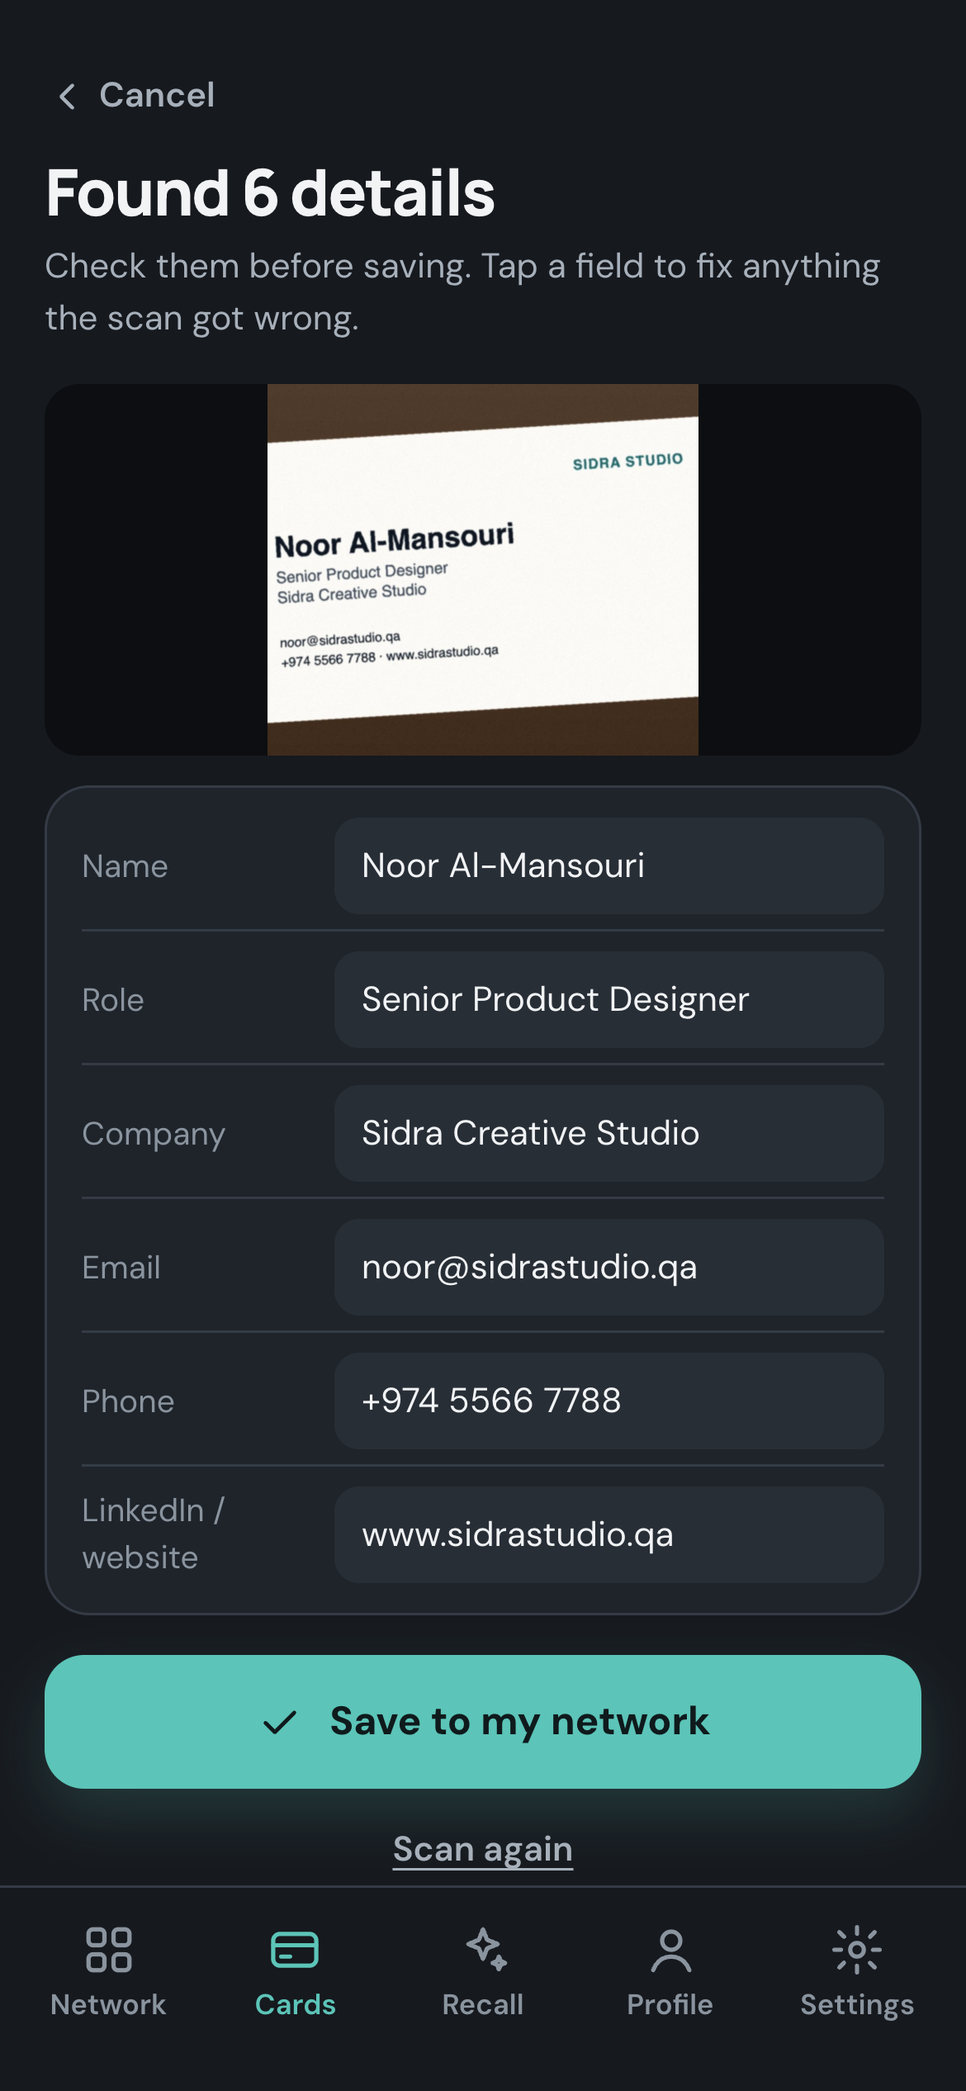
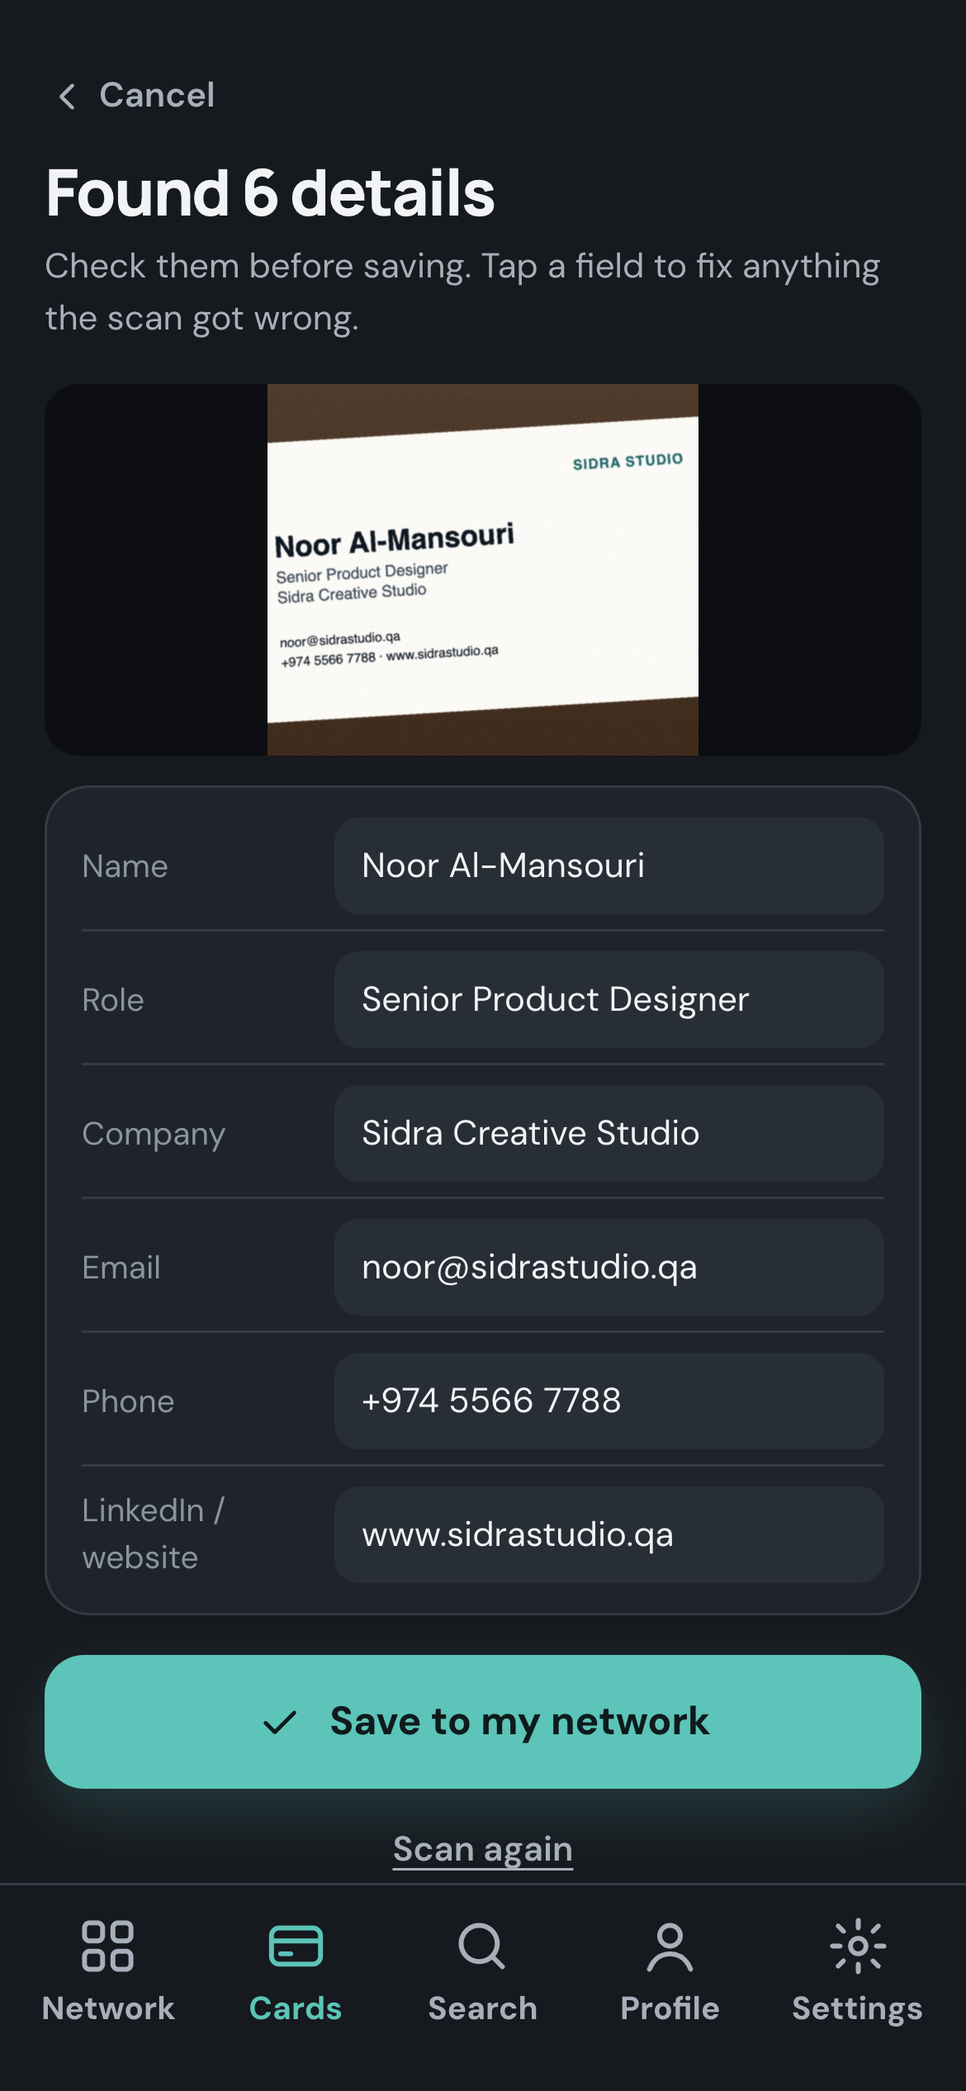
Has Wasl / No Wasl choice, fixed share layout, card type explanations, bigger tab bar, Search tab

diff --git a/index.html b/index.html
@@ -218,8 +218,8 @@ h1, h2, h3 { font-family: var(--display); text-wrap: balance; }
   position: absolute; inset: auto 0 0;
   display: grid;
   grid-template-columns: repeat(5, 1fr);
-  padding: 10px 6px calc(22px + env(safe-area-inset-bottom, 0px));
-  background: rgba(22, 25, 30, 0.94);
+  padding: 8px 6px calc(20px + env(safe-area-inset-bottom, 0px));
+  background: rgba(22, 25, 30, 0.96);
   backdrop-filter: blur(12px);
   border-top: 1px solid var(--line);
   z-index: 20;
@@ -228,12 +228,12 @@ h1, h2, h3 { font-family: var(--display); text-wrap: balance; }
 .tabbar button {
   border: 0; background: transparent;
   display: flex; flex-direction: column; align-items: center; gap: 3px;
-  font-size: 11.5px; font-weight: 600;
-  color: var(--muted);
+  font-size: 13px; font-weight: 700;
+  color: var(--text-2);
   padding: 4px 0;
 }
 .tabbar button[aria-current="page"] { color: var(--teal); }
-.tabbar svg { width: 22px; height: 22px; }
+.tabbar svg { width: 25px; height: 25px; }
 
 /* ---------- common app parts ---------- */
 .topline { display: flex; align-items: center; justify-content: space-between; min-height: 44px; }
@@ -354,19 +354,29 @@ h1, h2, h3 { font-family: var(--display); text-wrap: balance; }
 .card.editing .f:hover { background: rgba(255, 255, 255, 0.12); }
 .card.editing .f.locked { outline: 0; cursor: default; }
 
-/* wallet stack */
-.wallet { position: relative; margin-top: 14px; }
+/* wallet stack: the cards behind show a strip with what they share; the front card sits in the flow, so the page always makes room for it */
+.wallet { --band: 56px; position: relative; margin-top: 12px; }
 .wallet .card { position: absolute; left: 0; right: 0; width: 100%; transition: transform 200ms; }
+.wallet .card:last-child { position: relative; top: 0 !important; }
+.wallet .card.behind .c-tile { visibility: hidden; }
+.card .c-peek { font-family: var(--mono); font-size: 11px; font-weight: 500; opacity: 0.92; min-width: 0; overflow: hidden; text-overflow: ellipsis; white-space: nowrap; }
+.card-about { display: flex; flex-direction: column; gap: 2px; padding: 10px 14px; border-radius: 14px; background: var(--surface); border: 1px solid var(--line); }
+.card-about b { font-size: 14px; }
+.card-about span { color: var(--text-2); font-size: 13px; }
 .wallet .card.behind:hover { transform: translateY(-4px); }
 .wallet .card.front { animation: lift 320ms ease-out; }
 @keyframes lift { from { transform: translateY(-26px); } to { transform: none; } }
 
 /* ---------- screen specifics ---------- */
-.join-hero { display: flex; flex-direction: column; align-items: center; text-align: center; gap: 10px; padding-top: 40px; }
-.join-hero svg.big { width: 128px; height: 82px; }
-.join-hero .wm { font-family: var(--display); font-weight: 800; font-size: 44px; letter-spacing: -1.2px; line-height: 1; }
-.join-hero p { color: var(--text-2); max-width: 26ch; }
-.fan { position: relative; height: 160px; margin: 18px 0 8px; }
+.join-hero { display: flex; flex-direction: column; align-items: center; text-align: center; gap: 8px; padding-top: 16px; }
+.join-hero svg.big { width: 96px; height: 62px; }
+.join-hero .wm { font-family: var(--display); font-weight: 800; font-size: 40px; letter-spacing: -1.2px; line-height: 1; }
+.join-hero p { color: var(--text-2); max-width: 30ch; }
+.fan { position: relative; height: 150px; margin: 10px 0 4px; }
+.what { list-style: none; margin: 0; padding: 0; display: grid; gap: 10px; }
+.what li { display: flex; align-items: center; gap: 12px; font-size: 14.5px; color: var(--text-2); }
+.what li svg { width: 20px; height: 20px; color: var(--teal); flex: none; }
+.what b { color: var(--text); }
 .fan .card { position: absolute; left: 50%; top: 14px; }
 .viewfinder {
   position: relative;
@@ -467,13 +477,21 @@ h1, h2, h3 { font-family: var(--display); text-wrap: balance; }
 .swatch.social { background: var(--card-social); }
 .swatch.team { background: var(--card-team); }
 
-.exchange { position: relative; height: 470px; margin-top: 8px; }
-.exchange .slot { position: absolute; left: 0; right: 0; transition: transform 700ms cubic-bezier(.6, -0.2, .3, 1.3), opacity 300ms; }
-.exchange .theirs { top: 0; }
-.exchange .yours { bottom: 0; }
+/* the two cards sit in the flow, so the labels can never land on a card at any screen size */
+.exchange { position: relative; display: flex; flex-direction: column; gap: 14px; margin-top: 10px; }
+.exchange .slot { position: relative; width: 100%; max-width: 300px; margin-inline: auto; transition: transform 700ms cubic-bezier(.6, -0.2, .3, 1.3), opacity 300ms; }
 .exchange .slot .who { font-family: var(--mono); font-size: 11px; letter-spacing: 0.08em; color: var(--muted); text-transform: uppercase; margin-bottom: 8px; }
-.exchange.swapping .theirs { transform: translateY(258px) rotate(-3deg); }
-.exchange.swapping .yours { transform: translateY(-258px) rotate(3deg); }
+.exchange.swapping .theirs { transform: translateY(calc(100% + 14px)) rotate(-3deg); }
+.exchange.swapping .yours { transform: translateY(calc(-100% - 14px)) rotate(3deg); }
+.choice { display: flex; align-items: center; gap: 14px; width: 100%; text-align: left; border: 1px solid var(--line); background: var(--surface); color: var(--text); border-radius: 18px; padding: 16px; }
+.choice .ic { width: 44px; height: 44px; border-radius: 14px; display: grid; place-items: center; flex: none; background: rgba(92, 196, 184, 0.16); color: var(--teal); }
+.choice .ic svg { width: 22px; height: 22px; }
+.choice.no-wasl .ic { background: rgba(239, 160, 102, 0.16); color: var(--orange); }
+.choice b { display: block; font-size: 17px; }
+.choice span span { color: var(--text-2); font-size: 13.5px; }
+.choice > svg { width: 18px; height: 18px; color: var(--muted); margin-left: auto; flex: none; }
+.sharing { margin-top: 22px; }
+.sharing .card { max-width: 300px; margin: 8px auto 0; }
 .exchange .pulse { position: absolute; left: 50%; top: 50%; width: 64px; height: 64px; margin: -32px; border-radius: 50%; display: grid; place-items: center; background: var(--raised); color: var(--teal); z-index: 2; }
 .exchange .pulse svg { width: 28px; height: 28px; }
 .exchange.swapping .pulse { animation: buzz 120ms linear 6; }
@@ -731,7 +749,15 @@ h1, h2, h3 { font-family: var(--display); text-wrap: balance; }
     phone: { label: "Phone", icon: "phone" },
     instagram: { label: "Instagram", icon: "insta" },
   };
-  const KIND = { pro: "PROFESSIONAL", event: "EVENT", social: "SOCIAL", team: "TEAM WASL" };
+  const KIND = { pro: "PROFESSIONAL", event: "EVENT", social: "SOCIAL", team: "TEAM" };
+  // what each card is for, said plainly (testers didn't know what "Event" or "Team" meant)
+  const KIND_FOR = {
+    pro: "For work contacts and recruiters.",
+    event: "For people you meet at events. Shares the basics only.",
+    social: "For friends and people you meet socially.",
+    team: "For your teammates and classmates.",
+  };
+  const kindName = (id) => KIND[id].charAt(0) + KIND[id].slice(1).toLowerCase();
   const COLOR_NAME = { pro: "Deep teal", event: "Deep violet", social: "Copper", team: "Deep blue" };
 
   // Each person shares a different set of details, the way real cards differ.
@@ -797,7 +823,7 @@ h1, h2, h3 { font-family: var(--display); text-wrap: balance; }
     front: "event",
     editId: "event",
     draft: null,
-    exPhase: "ready",
+    exPhase: "ask", // ask | ready | swapping | done | paper | paperfound | scanned
     swappedWith: null,
     mariamSaved: false,
     ctxConfirmed: false,
@@ -834,9 +860,12 @@ h1, h2, h3 { font-family: var(--display); text-wrap: balance; }
 
   // ---------- rendering helpers ----------
   const fieldValue = (f) => ME[f];
+  const sharesList = (fields) => fields.map((f) => FIELD_META[f].short || FIELD_META[f].label).join(" · ");
+  const cardFields = (id) => S.cards[id].fields.filter((f) => f !== "instagram" || S.extra.instagram);
   function card(id, opts = {}) {
     const c = opts.data || S.cards[id];
-    const fields = c.fields;
+    // Instagram appears only after the person adds their own handle
+    const fields = c.fields.filter((f) => f !== "instagram" || S.extra.instagram);
     const isEdit = !!opts.edit;
     const mini = !!opts.mini;
     const body = ["name", "role", "org"].filter((f) => fields.includes(f) && !(mini && f === "org"));
@@ -846,7 +875,7 @@ h1, h2, h3 { font-family: var(--display); text-wrap: balance; }
         ? `<span class="f ${cls}" data-act="hide-field" data-f="${f}" role="button" tabindex="0" aria-label="Hide ${FIELD_META[f].label}">${esc(text)}</span>`
         : `<span class="f ${cls} ${isEdit ? "locked" : ""}">${esc(text)}</span>`;
     return `<${opts.tag || "div"} class="card ${c.color} ${isEdit ? "editing" : ""} ${mini ? "mini" : ""} ${opts.cls || ""}" ${opts.attrs || ""}>
-      <div class="c-top"><span class="c-word">wasl</span><span class="c-kind">${KIND[id] || ""}</span></div>
+      <div class="c-top">${opts.peek ? `<span class="c-peek">${esc(sharesList(fields))}</span>` : '<span class="c-word">wasl</span>'}<span class="c-kind">${KIND[id] || ""}</span></div>
       ${tile(!mini && fields.includes("org") ? ME.org : null)}
       ${body.includes("name") ? `<div class="c-name">${fEl("name", "", ME.name)}</div>` : ""}
       ${body.filter((f) => f !== "name").map((f) => `<div class="c-line">${fEl(f, "", fieldValue(f))}</div>`).join("")}
@@ -912,14 +941,20 @@ h1, h2, h3 { font-family: var(--display); text-wrap: balance; }
       return `<div class="join-hero">
           ${symbol("big")}
           <div class="wm">wasl</div>
-          <p>Never forget who you met, or why it mattered.</p>
+          <p>Your business cards on your phone. Never forget who you met, or why it mattered.</p>
         </div>
         <div class="fan" aria-hidden="true">
           ${card("social", { mini: true, attrs: 'style="transform:translateX(-88%) rotate(-12deg) scale(.9)"' })}
           ${card("event", { mini: true, attrs: 'style="transform:translateX(-12%) rotate(10deg) scale(.9)"' })}
           ${card("pro", { mini: true, attrs: 'style="transform:translateX(-50%) rotate(-2deg);top:24px"' })}
         </div>
-        <div class="stack" style="margin-top:22px">
+        <ul class="what">
+          <li>${ic("cards")}<span><b>Share</b> a digital business card with one scan</span></li>
+          <li>${ic("pin")}<span><b>Remember</b> where you met and what you talked about</span></li>
+          <li>${ic("search")}<span><b>Find</b> people later by what you remember</span></li>
+        </ul>
+        <div class="stack" style="margin-top:18px">
+          <p class="hint" style="margin:0">Start by scanning your own business card</p>
           <button class="btn" data-act="scan-own">${ic("scan")}Scan my business card</button>
           <button class="btn blue" data-act="import-linkedin">${ic("linkedin")}Import from LinkedIn</button>
           <button class="link" data-act="email-signup">Sign up with email instead</button>
@@ -972,10 +1007,10 @@ h1, h2, h3 { font-family: var(--display); text-wrap: balance; }
     build() {
       const d = S.draft;
       const allContact = ["role", "org", "email", "linkedin", "phone", "instagram"];
-      const hidden = allContact.filter((f) => !d.fields.includes(f));
+      const hidden = allContact.filter((f) => !d.fields.includes(f) && (f !== "instagram" || S.extra.instagram));
       return `${back("wallet", "Cards")}
-        <h2 class="title" style="font-size:26px">Edit ${KIND[S.editId].toLowerCase().replace(/^\w/, (c) => c.toUpperCase())} card</h2>
-        <p class="sub">Tap a detail on the card to hide it.</p>
+        <h2 class="title" style="font-size:26px">Edit ${kindName(S.editId)} card</h2>
+        <p class="sub">${KIND_FOR[S.editId]} Tap a detail on the card to hide it, like your email.</p>
         <div style="margin:16px 0 18px">${card(S.editId, { data: d, edit: true })}</div>
         <div class="stack">
           <div class="label">Add from your profile</div>
@@ -987,18 +1022,14 @@ h1, h2, h3 { font-family: var(--display); text-wrap: balance; }
     },
 
     wallet() {
-      const band = 66;
-      const cardH = 216;
       const order = S.order;
-      const h = band * (order.length - 1) + cardH;
-      return `<div class="topline"><span class="wordmark">${symbol()}wasl</span><button class="round" data-act="edit-front" aria-label="Edit the front card">${ic("plus")}</button></div>
-        <h2 class="title">My cards</h2>
-        <div class="wallet" style="height:${h}px">
-          ${order.map((id, i) => card(id, { cls: id === S.front ? "front" : "behind", attrs: `style="top:${i * band}px;z-index:${i + 1}" data-act="front" data-id="${id}" role="button" tabindex="0" aria-label="${KIND[id]} card"` })).join("")}
+      return `<div class="topline"><h2 class="title">My cards</h2><button class="round" data-act="edit-front" aria-label="Edit the front card">${ic("pencil")}</button></div>
+        <div class="wallet" style="padding-top:calc(var(--band) * ${order.length - 1})">
+          ${order.map((id, i) => card(id, { peek: id !== S.front, cls: id === S.front ? "front" : "behind", attrs: `style="top:calc(var(--band) * ${i});z-index:${i + 1}" data-act="front" data-id="${id}" role="button" tabindex="0" aria-label="${kindName(id)} card: ${sharesList(cardFields(id))}"` })).join("")}
         </div>
-        <div class="stack" style="margin-top:16px">
-          <button class="btn" data-act="share">${ic("qr")}Share ${KIND[S.front].charAt(0) + KIND[S.front].slice(1).toLowerCase()}</button>
-          <div class="row" style="justify-content:center;gap:4px"><p class="hint">Tap a card to bring it forward ·</p><button class="link" style="font-size:13px" data-act="edit-front">Edit this card</button></div>
+        <div class="stack" style="margin-top:12px;gap:10px">
+          <button class="btn" data-act="share">${ic("qr")}Share card</button>
+          <div class="card-about"><b>${kindName(S.front)} card</b><span>${KIND_FOR[S.front]} Tap another card to switch, or <button class="link" style="padding:0;font-size:13px" data-act="edit-front">edit this one</button>.</span></div>
         </div>`;
     },
 
@@ -1057,7 +1088,17 @@ h1, h2, h3 { font-family: var(--display); text-wrap: balance; }
     },
 
     exchange() {
-      const kind = KIND[S.front].charAt(0) + KIND[S.front].slice(1).toLowerCase();
+      const kind = kindName(S.front);
+      // first ask whether the other person has Wasl, so Mariam only appears when she does
+      if (S.exPhase === "ask")
+        return `${back("wallet", "Cards")}
+          <h2 class="title" style="font-size:26px">Share your ${kind} card</h2>
+          <p class="sub">Does the person you just met have Wasl?</p>
+          <div class="stack" style="margin-top:18px">
+            <button class="choice" data-act="has-wasl"><span class="ic">${ic("qr")}</span><span><b>They have Wasl</b><span>Swap cards by scanning each other's code</span></span>${ic("right")}</button>
+            <button class="choice no-wasl" data-act="scan-paper"><span class="ic">${ic("camera")}</span><span><b>No Wasl</b><span>Scan their paper business card instead</span></span>${ic("right")}</button>
+          </div>
+          <div class="sharing"><div class="label" style="text-align:center">You're sharing</div>${card(S.front)}</div>`;
       if (S.exPhase === "scanned") {
         const p = S.scanned[0];
         return `${back("exchange-reset", "Share")}
@@ -1066,7 +1107,7 @@ h1, h2, h3 { font-family: var(--display); text-wrap: balance; }
           <div style="margin:18px 0">${personCard(p)}</div>
           <div class="stack">
             <button class="btn" data-go="network">${ic("network")}Open my network</button>
-            <button class="link" data-go="exchange-reset">Swap cards with Mariam instead</button>
+            <button class="link" data-go="exchange-swap">Swap cards with Mariam instead</button>
           </div>`;
       }
       if (S.exPhase === "paper")
@@ -1094,8 +1135,8 @@ h1, h2, h3 { font-family: var(--display); text-wrap: balance; }
           <p class="sub">${S.swappedWith === "paper" ? "Wasl turned it into a card and invited her to join." : `She has your ${kind} card. Hers is now in your wallet.`}</p>
           <div style="margin:18px 0">${personCard(MARIAM)}</div>
           <button class="btn" data-go="save">${ic("check")}Save Mariam</button>`;
-      return `${back("wallet", "Cards")}
-        <h2 class="title" style="font-size:26px">Share your ${kind} card</h2>
+      return `${back("exchange-reset", "Back")}
+        <h2 class="title" style="font-size:26px">Swap cards with Mariam</h2>
         <p class="sub">Scan Mariam's code, or let her scan yours.</p>
         <div class="exchange ${S.exPhase === "swapping" ? "swapping" : ""}" id="exchange">
           <div class="slot theirs"><div class="who">Mariam's phone</div>${personCard(MARIAM)}</div>
@@ -1105,8 +1146,7 @@ h1, h2, h3 { font-family: var(--display); text-wrap: balance; }
         <div class="row" style="margin-top:12px">
           <div style="width:72px;height:72px;flex:none">${qrSvg(7)}</div>
           <button class="btn" data-act="do-swap" ${S.exPhase === "swapping" ? "disabled" : ""}>${ic("scan")}Scan Mariam's code</button>
-        </div>
-        <button class="link" style="display:block;margin:10px auto 0" data-act="scan-paper">No Wasl? Scan their paper card</button>`;
+        </div>`;
     },
 
     save() {
@@ -1240,7 +1280,7 @@ h1, h2, h3 { font-family: var(--display); text-wrap: balance; }
             </div>`).join("")
           : `<div class="panel stack" style="margin-top:16px"><b>No one matched that</b><p class="sub">Try what they did, where you met, or what you talked about.</p></div>`;
       }
-      return `<div class="topline"><h2 class="title">Recall</h2></div>
+      return `<div class="topline"><h2 class="title">Search</h2></div>
         <p class="sub">Ask like you remember it, by typing or with the mic. No names needed.</p>
         <form class="search" id="recallForm" style="margin-top:16px" autocomplete="off">
           ${ic("recall")}
@@ -1342,7 +1382,7 @@ h1, h2, h3 { font-family: var(--display); text-wrap: balance; }
   const screenEl = document.getElementById("screen");
   const tabbar = document.getElementById("tabbar");
   const overlay = document.getElementById("overlay");
-  const TABS = [["network", "Network"], ["wallet", "Cards"], ["recall", "Recall"], ["profile", "Profile"], ["settings", "Settings"]];
+  const TABS = [["network", "Network"], ["wallet", "Cards"], ["recall", "Search"], ["profile", "Profile"], ["settings", "Settings"]];
   const TAB_OF = { network: "network", album: "network", debrief: "network", remember: "network", wallet: "wallet", build: "wallet", exchange: "wallet", scanner: "wallet", save: "wallet", recall: "recall", profile: "profile", settings: "settings" };
   let lastScreen = null;
 
@@ -1361,7 +1401,7 @@ h1, h2, h3 { font-family: var(--display); text-wrap: balance; }
       screenEl.scrollTop = 0;
       lastScreen = S.screen;
     }
-    tabbar.innerHTML = TABS.map(([k, l]) => `<button data-go="${k}" ${TAB_OF[S.screen] === k ? 'aria-current="page"' : ""}>${ic(k === "wallet" ? "cards" : k)}${l}</button>`).join("");
+    tabbar.innerHTML = TABS.map(([k, l]) => `<button data-go="${k}" ${TAB_OF[S.screen] === k ? 'aria-current="page"' : ""}>${ic(k === "wallet" ? "cards" : k === "recall" ? "search" : k)}${l}</button>`).join("");
     overlay.innerHTML = S.sheet ? sheets[S.sheet]() : "";
     if (S.screen === "debrief") bindDeck();
     renderGuide();
@@ -1427,7 +1467,8 @@ h1, h2, h3 { font-family: var(--display); text-wrap: balance; }
   // ---------- actions ----------
   function go(to) {
     if (to === "join-reset") { S.joinPhase = "choose"; S.screen = "join"; }
-    else if (to === "exchange-reset") { S.exPhase = "ready"; S.screen = "exchange"; }
+    else if (to === "exchange-reset") { S.exPhase = "ask"; S.screen = "exchange"; }
+    else if (to === "exchange-swap") { S.exPhase = "ready"; S.screen = "exchange"; }
     else if (to === "save" && !S.swappedWith) { setupTo(3); }
     else if (to === "remember" && !S.swappedWith) { setupTo(4); }
     else S.screen = to;
@@ -1511,7 +1552,8 @@ h1, h2, h3 { font-family: var(--display); text-wrap: balance; }
       render();
       xpToast("Card saved", 15);
     },
-    share() { S.exPhase = "ready"; S.screen = "exchange"; render(); },
+    share() { S.exPhase = "ask"; S.screen = "exchange"; render(); },
+    "has-wasl"() { S.exPhase = "ready"; render(); },
     "do-swap"() {
       if (!S.profileFilled) S.profileFilled = true;
       S.exPhase = "swapping";
@@ -2093,12 +2135,12 @@ h1, h2, h3 { font-family: var(--display); text-wrap: balance; }
   const STEPS = [
     { n: "1", t: "Join", wow: 1, h: "Scan your card. Your profile fills itself.", screen: "join" },
     { n: "2", t: "Build", wow: 1, h: "Tap details on the card to hide them. Pick a color.", screen: "build" },
-    { n: "3", t: "Share", wow: 1, h: "Swap cards with Mariam, or scan her paper card.", screen: "wallet" },
+    { n: "3", t: "Share", wow: 1, h: "Share card. Has Wasl? Swap codes. No Wasl? Scan their paper card.", screen: "wallet" },
     { n: "4", t: "Save", wow: 2, h: "Confirm where you met. Add a tag.", screen: "save" },
     { n: "5", t: "Remember", wow: 2, h: "Tap the mic and talk. Wasl keeps only what mattered.", screen: "remember" },
     { n: "+", t: "Debrief", wow: 2, h: "Bonus: swipe through tonight's people.", screen: "debrief" },
     { n: "6", t: "Browse", wow: 3, h: "Albums by event and company build themselves.", screen: "network" },
-    { n: "7", t: "Recall", wow: 3, h: "Ask for someone by memory, not by name.", screen: "recall" },
+    { n: "7", t: "Search", wow: 3, h: "Find someone by memory, not by name.", screen: "recall" },
   ];
   const WOW = { 1: "WOW 1", 2: "WOW 2", 3: "WOW 3" };
   const STEP_OF = { join: 0, profile: 0, build: 1, wallet: 2, exchange: 2, save: 3, remember: 4, debrief: 5, network: 6, album: 6, recall: 7, settings: -1 };
